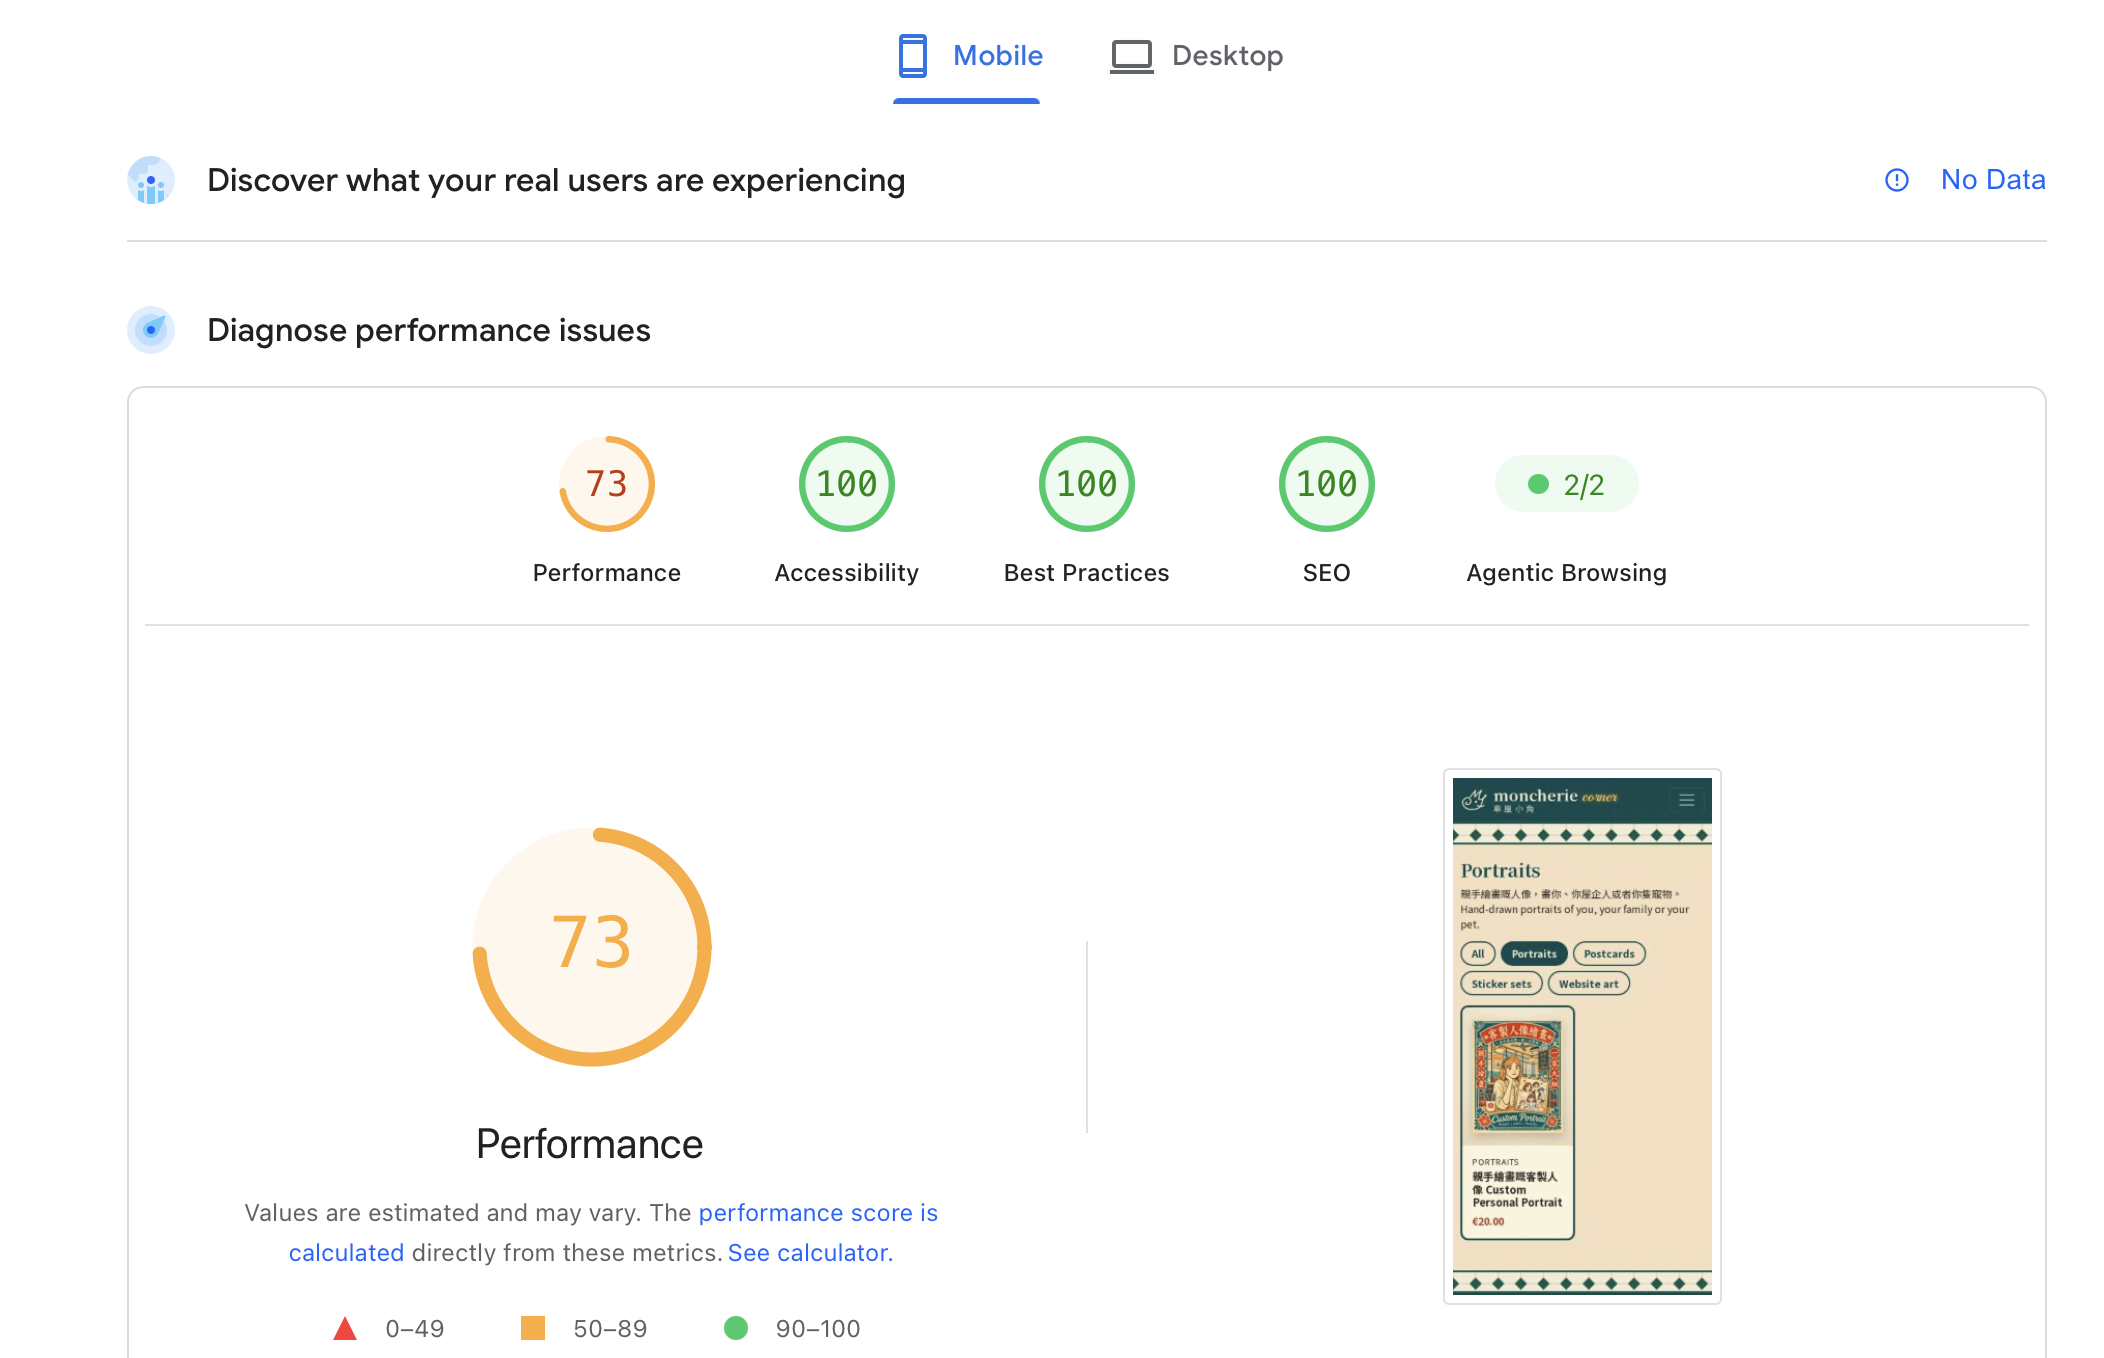
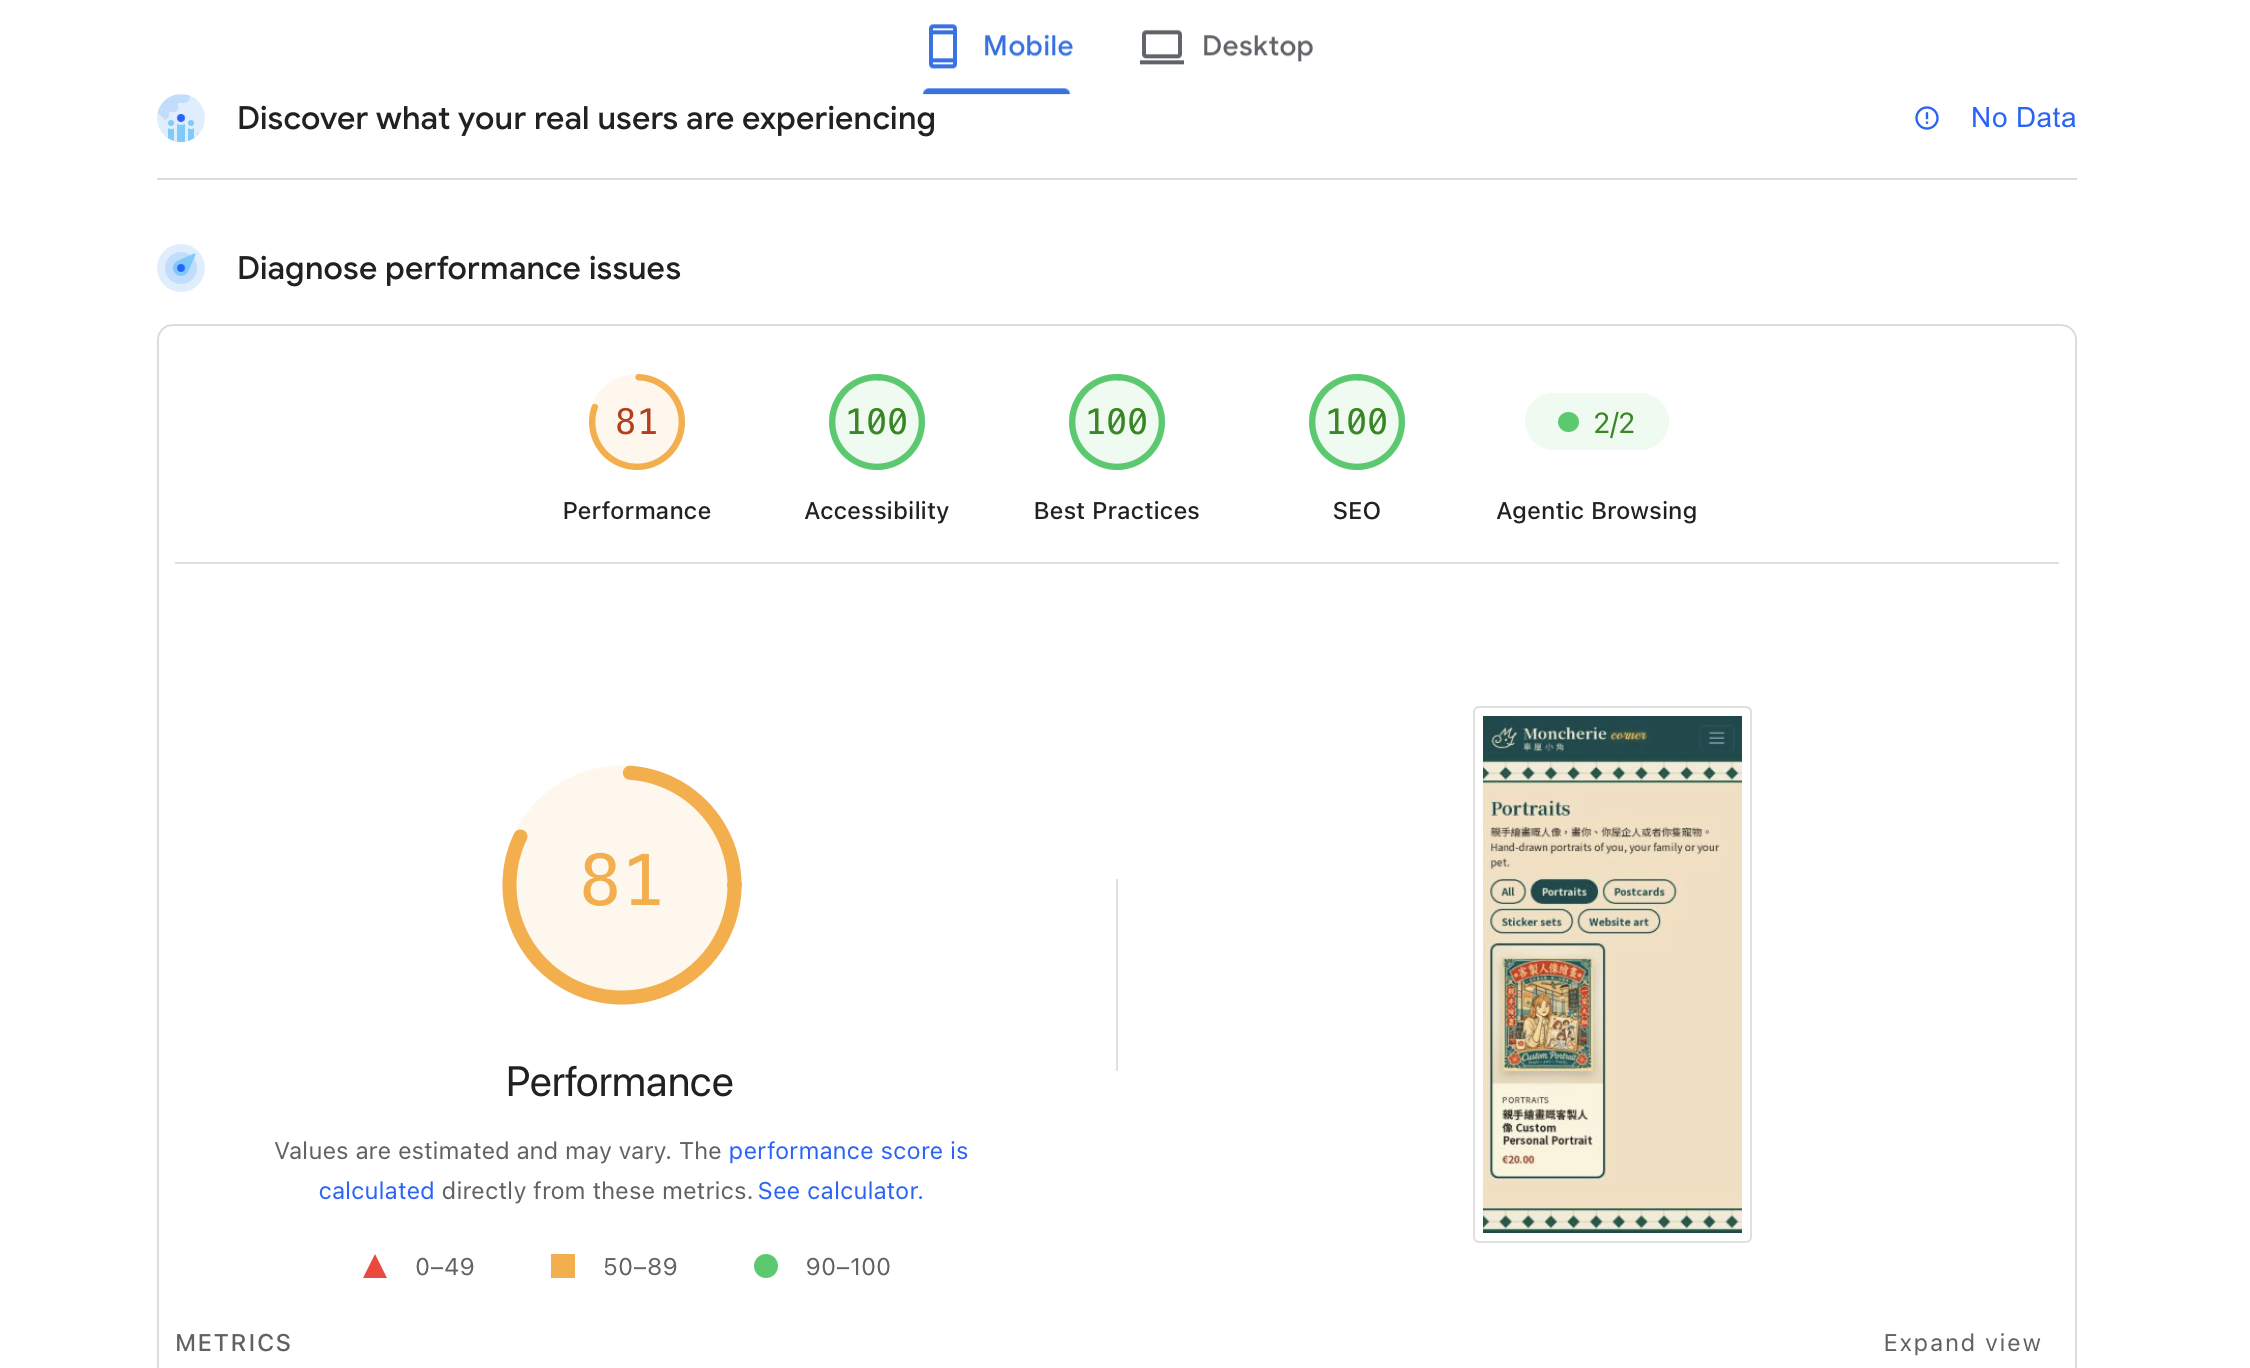
README: final Lighthouse scores and before/after

diff --git a/README.md b/README.md
@@ -770,20 +770,26 @@ All four JavaScript files were checked with [JSHint](https://jshint.com/), with 
 
 Tested with Lighthouse (via [PageSpeed Insights](https://pagespeed.web.dev/)) on the live site.
 
-| Page | Device | Performance | Accessibility | Best Practices | SEO |
-|---|---|---|---|---|---|
-| Home | Mobile | 72 | 100 | 100 | 100 |
-| Home | Desktop | 91 | 100 | 100 | 100 |
-| All products | Mobile | 72 | 100 | 100 | 100 |
-| All products | Desktop | 92 | 100 | 100 | 100 |
-| Portraits category | Mobile | 73 | 100 | 100 | 100 |
-| Portraits category | Desktop | 95 | 100 | 100 | 100 |
-
-![Lighthouse home desktop](docs/screenshots/lighthouse-home-desktop.png)
+| Page | Device | Performance | Accessibility | Best Practices | SEO | Screenshot |
+|---|---|---|---|---|---|---|
+| Home | Mobile | 86 | 100 | 100 | 100 | [view](docs/screenshots/lighthouse-home-mobile.png) · [before](docs/screenshots/lighthouse-home-mobile-before.png) |
+| Home | Desktop | 91 | 100 | 100 | 100 | [view](docs/screenshots/lighthouse-home-desktop.png) |
+| All products | Mobile | 74 | 100 | 100 | 100 | [view](docs/screenshots/lighthouse-products-mobile.png) · [before](docs/screenshots/lighthouse-products-mobile-before.png) |
+| All products | Desktop | 92 | 100 | 100 | 100 | [view](docs/screenshots/lighthouse-products-desktop.png) |
+| Portraits category | Mobile | 81 | 100 | 100 | 100 | [view](docs/screenshots/lighthouse-category-mobile.png) · [before](docs/screenshots/lighthouse-category-mobile-before.png) |
+| Portraits category | Desktop | 95 | 100 | 100 | 100 | [view](docs/screenshots/lighthouse-category-desktop.png) |
 
 **What I improved:** the first test showed that pictures were too big ([before](docs/screenshots/lighthouse-before-insights-mobile.png)). Now Cloudinary sends product pictures smaller and in a modern format (`f_auto,q_auto,w_…`), the hero poster has a smaller version for phones, and the icon script loads after the page. This cut the pictures on the home page from about **4,150 KiB to 630 KiB** ([after](docs/screenshots/lighthouse-after-insights-mobile.png)), and desktop performance went from 85 to 91.
 
-Mobile performance is still about 72, because Bootstrap and the Google Fonts file (the Chinese fonts are large) must load before the page is shown. Pages behind a login (bag, checkout, My orders) cannot be tested with PageSpeed, but they use the same base template.
+Google Fonts now load after the page is shown (`media="print"` with `onload`), so phones show the page sooner. On product lists, the first two pictures load straight away and the rest load when the customer scrolls. Mobile performance went up on every page:
+
+| Page | Mobile before | Mobile after |
+|---|---|---|
+| Home | 72 | **86** |
+| All products | 72 | **74** |
+| Portraits category | 73 | **81** |
+
+The All products page shows many large product drawings at once, so it is still a bit slower on mobile. Pages behind a login (bag, checkout, My orders) cannot be tested with PageSpeed, but they use the same base template.
 
 ### Accessibility: WAVE
 
